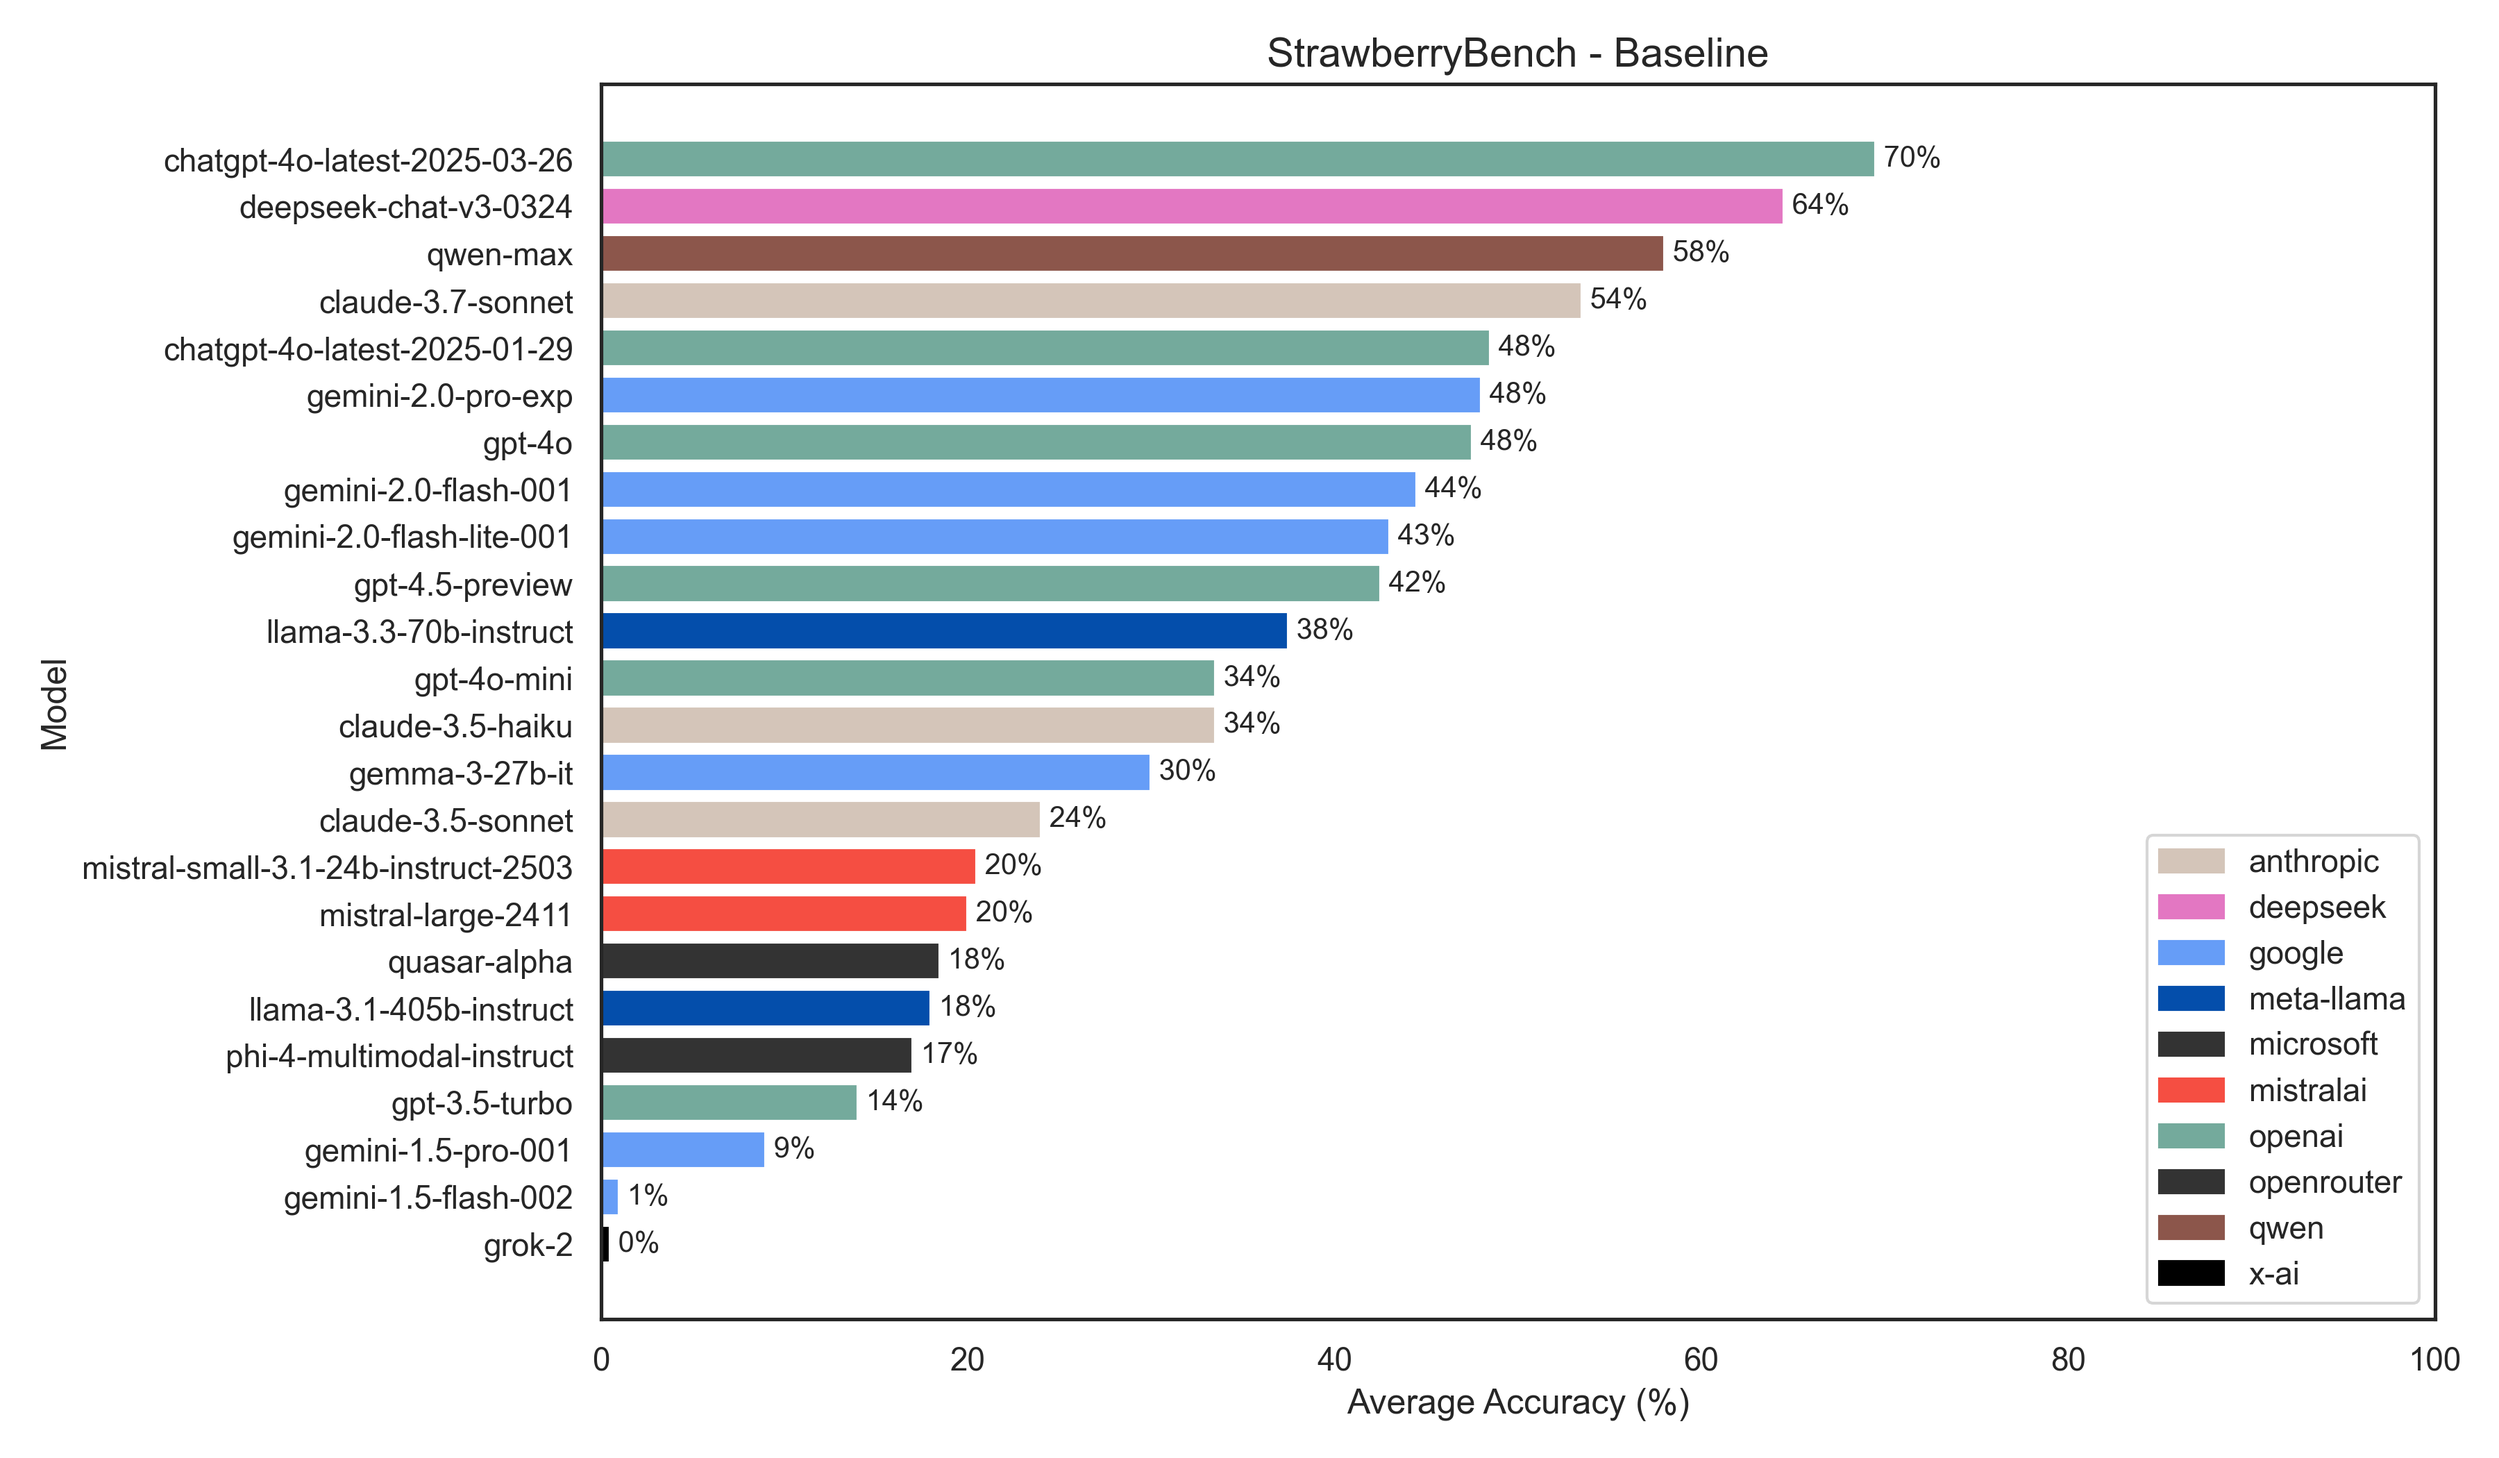
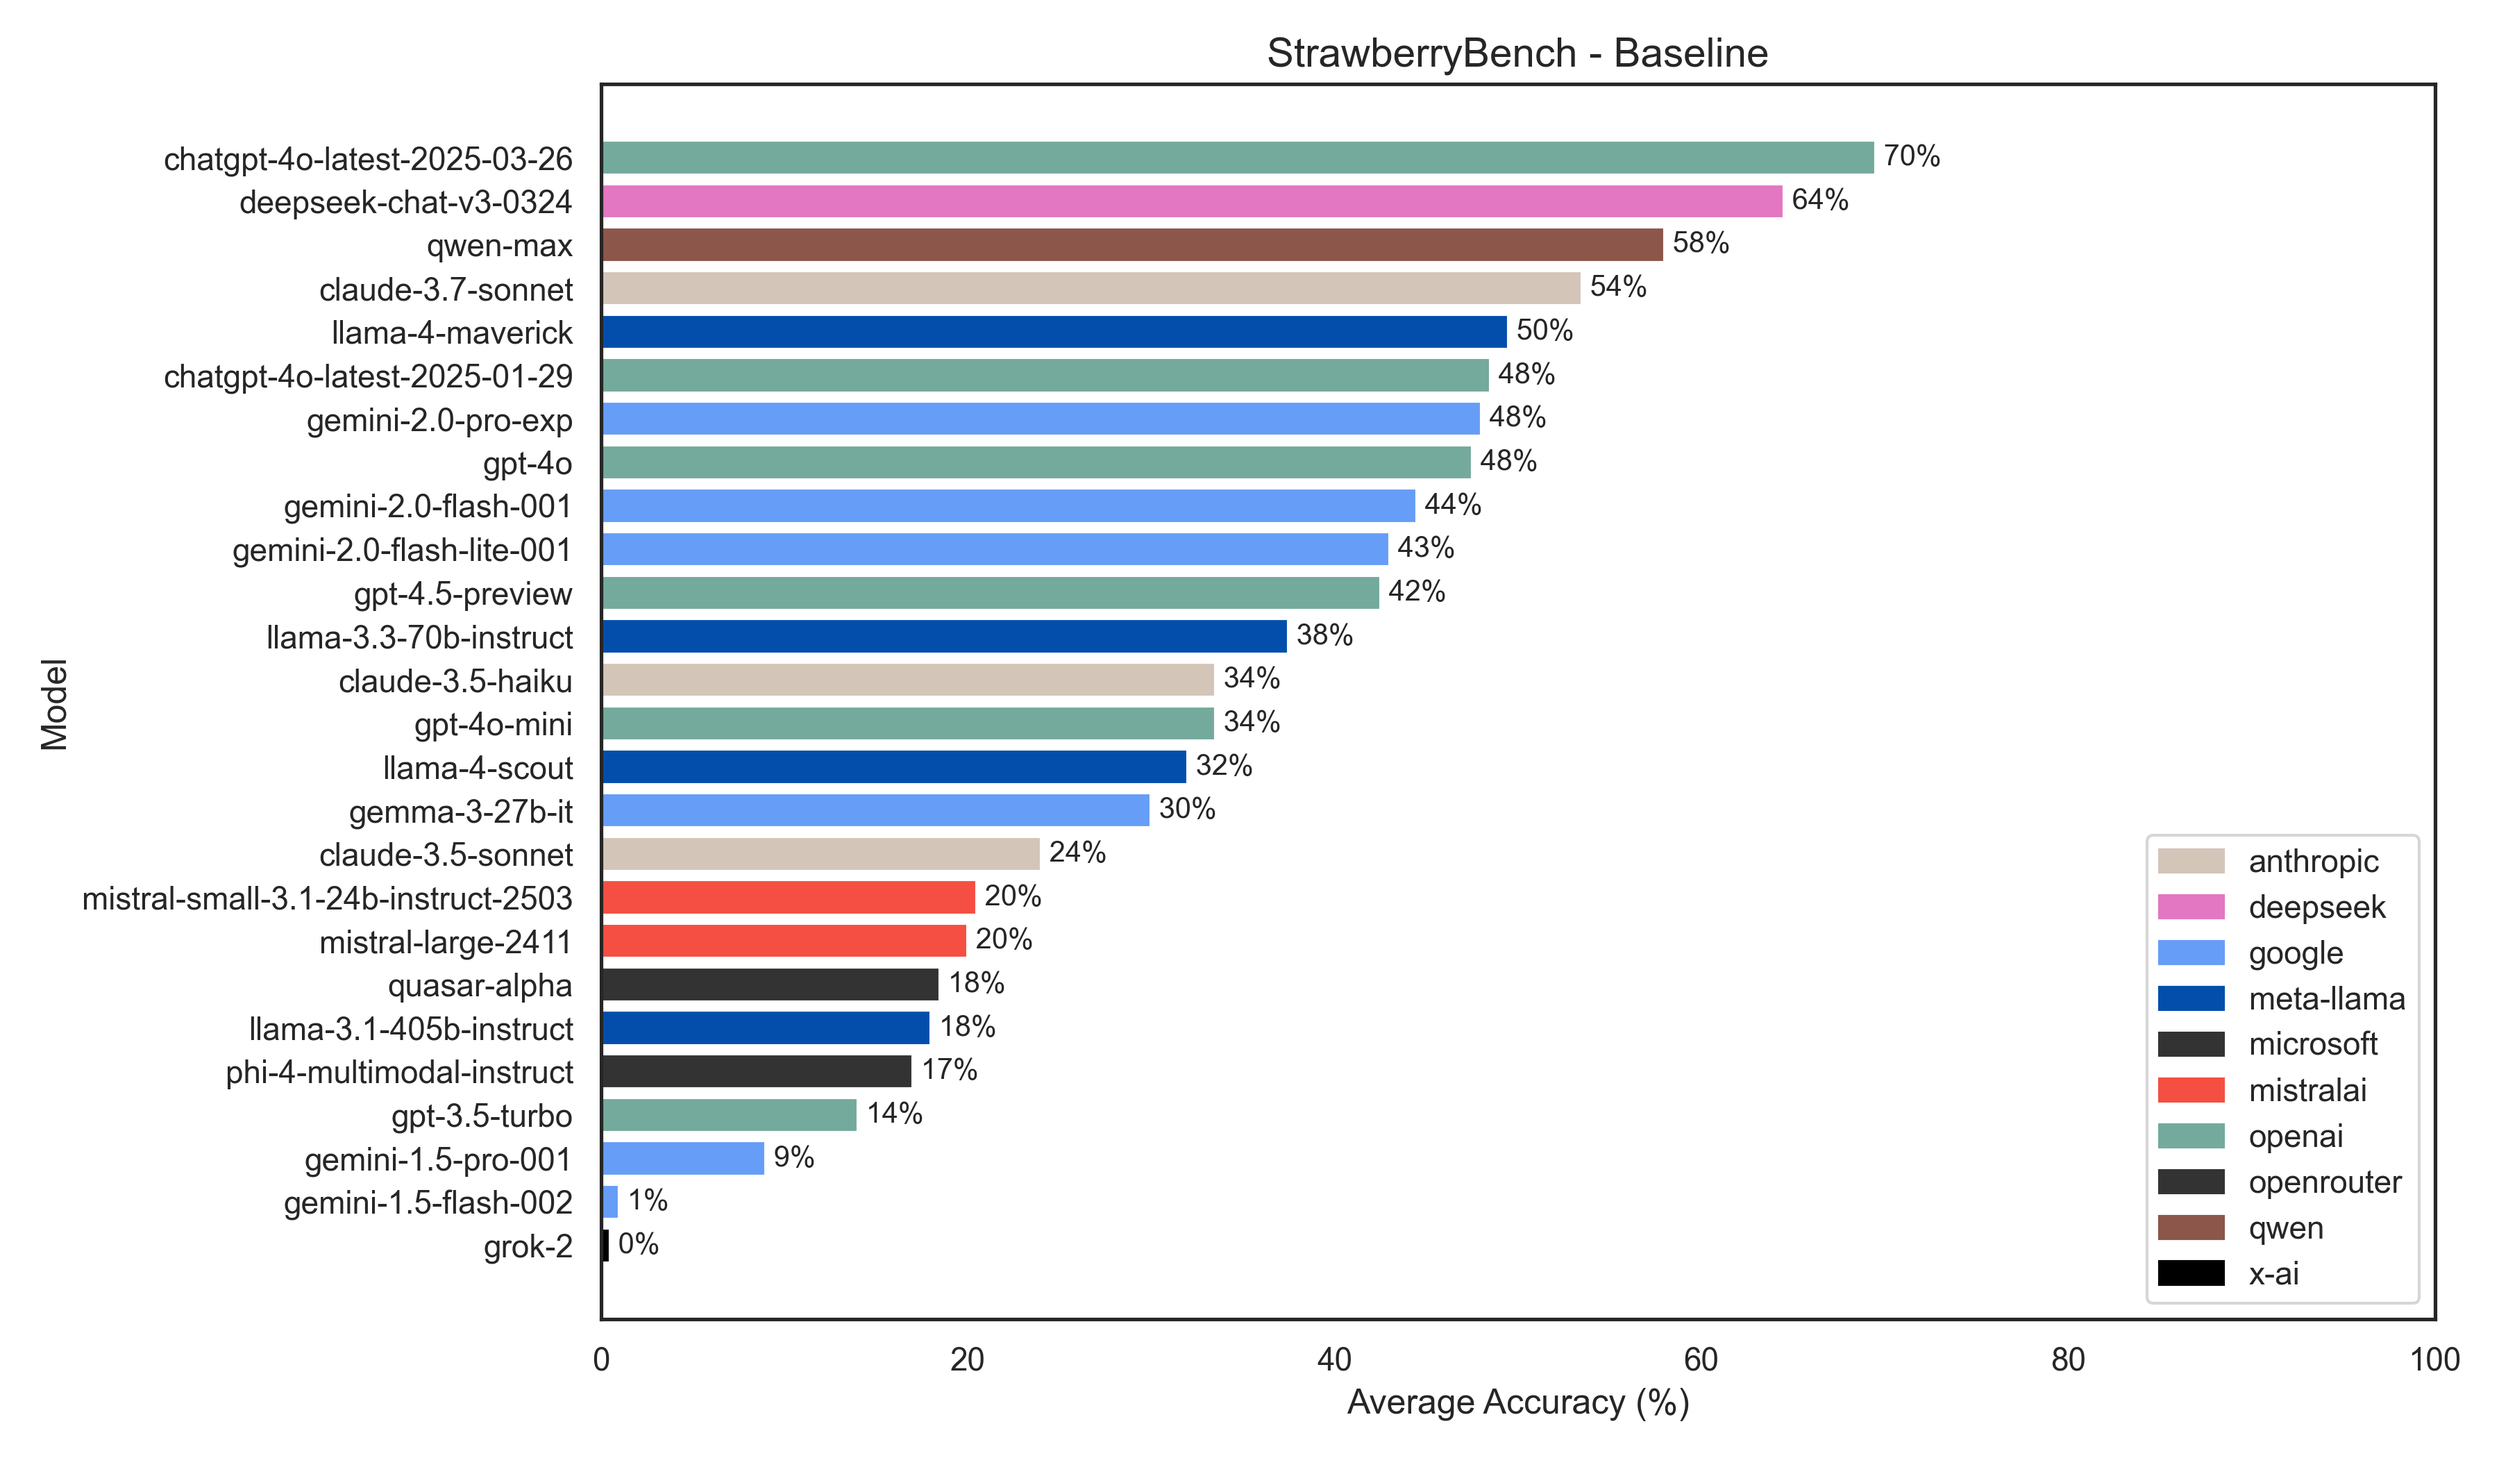
Add llama 4 maverick and scout

Changed region(s): [[0.0311, 0.0929, 0.7467, 0.8667], [0.7467, 0.0929, 0.7778, 0.1238]]

diff --git a/config.py b/config.py
@@ -11,6 +11,8 @@ MODELS = [
     # { "name": "google/gemma-3-27b-it", "client": "openrouter", "type": "nocot" },
     # { "name": "meta-llama/llama-3.1-405b-instruct", "client": "openrouter", "type": "nocot" },
     # { "name": "meta-llama/llama-3.3-70b-instruct", "client": "openrouter", "type": "nocot" },
+    # { "name": "meta-llama/llama-4-scout", "client": "openrouter", "type": "nocot" },
+    # { "name": "meta-llama/llama-4-maverick", "client": "openrouter", "type": "nocot" },
     # { "name": "microsoft/phi-4-multimodal-instruct", "client": "openrouter", "type": "nocot" },
     # { "name": "mistralai/mistral-large-2411", "client": "openrouter", "type": "nocot" },
     # { "name": "mistralai/mistral-small-3.1-24b-instruct-2503", "client": "openrouter", "type": "nocot" },
@@ -35,6 +37,8 @@ MODELS = [
     # { "name": "google/gemma-3-27b-it", "client": "openrouter", "type": "cot" },
     # { "name": "meta-llama/llama-3.1-405b-instruct", "client": "openrouter", "type": "cot" },
     # { "name": "meta-llama/llama-3.3-70b-instruct", "client": "openrouter", "type": "cot" },
+    # { "name": "meta-llama/llama-4-scout", "client": "openrouter", "type": "cot" },
+    # { "name": "meta-llama/llama-4-maverick", "client": "openrouter", "type": "cot" },
     # { "name": "microsoft/phi-4-multimodal-instruct", "client": "openrouter", "type": "cot" },
     # { "name": "mistralai/mistral-large-2411", "client": "openrouter", "type": "cot" },
     # { "name": "mistralai/mistral-small-3.1-24b-instruct-2503", "client": "openrouter", "type": "cot" },
